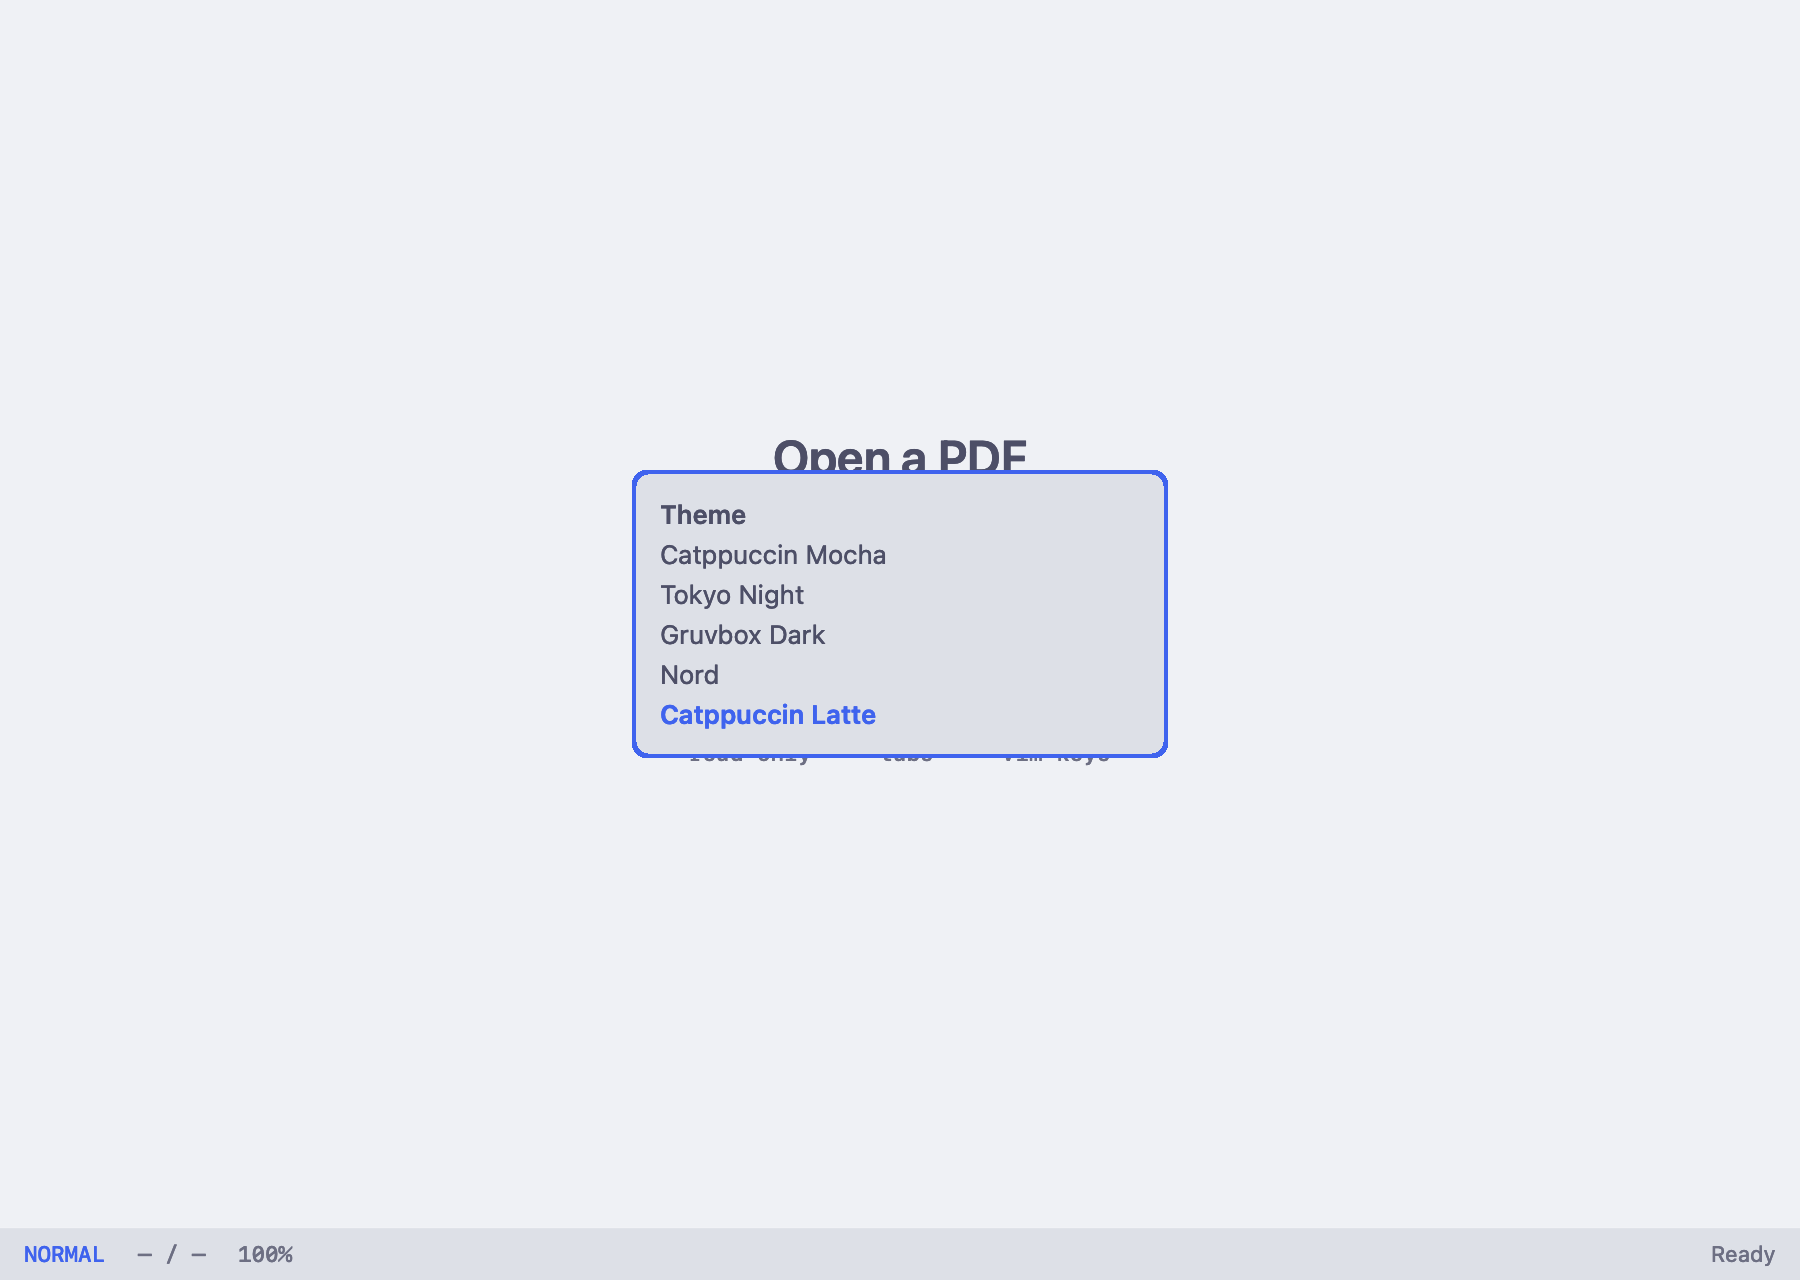
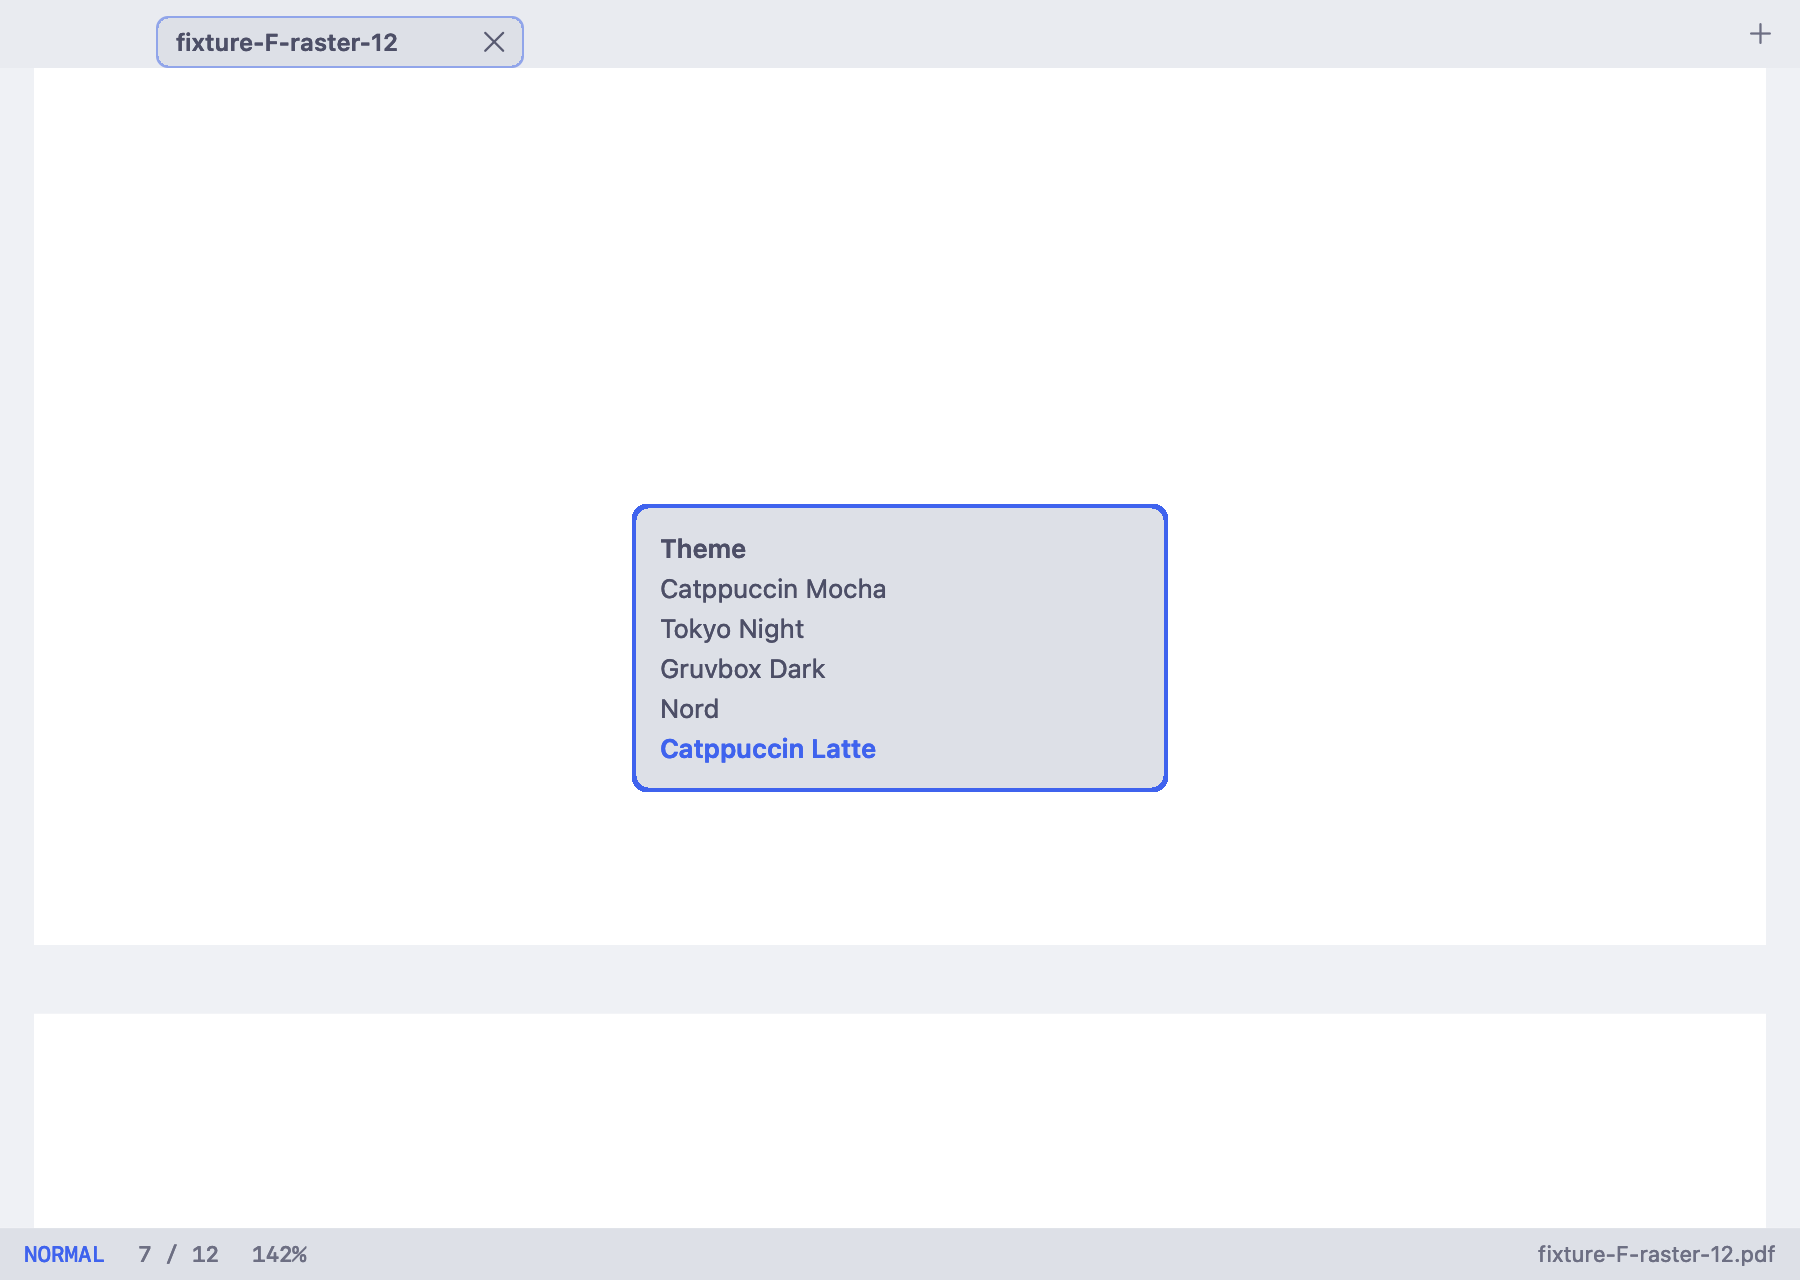
theme: visual-evidence render loads a raster PDF for a non-uniform, non-blank frame

diff --git a/PDFReaderAppTests/ThemePickerVisualEvidenceTests.swift b/PDFReaderAppTests/ThemePickerVisualEvidenceTests.swift
@@ -1,5 +1,6 @@
 import AppKit
 import PDFReaderCore
+import PDFReaderTestSupport
 import Testing
 @testable import PDFReaderApp
 
@@ -22,7 +23,12 @@ import Testing
         let w = controller.mainWindowController.window!
         w.setContentSize(NSSize(width: 900, height: 640)); w.orderFrontRegardless()
         func pump() { w.displayIfNeeded(); RunLoop.main.run(until: Date().addingTimeInterval(0.15)) }
-        pump()
+        // Open a raster PDF so the shell shows non-uniform page content behind
+        // the overlay (evidence must be a real, non-blank frame).
+        let pdf = try PDFFixtureFactory.makePerformancePDF(.F, in: dir)
+        #expect(controller.openDocument(at: pdf))
+        (controller.coordinator.activeSession as? ReaderSession)?.fitWidth()
+        for _ in 0..<12 { pump() }
         // open picker, move selection to catppuccin-latte (live preview -> light shell), capture
         controller.mainWindowController.presentThemePicker()
         let overlay = controller.mainWindowController.rootView.themePickerOverlay
